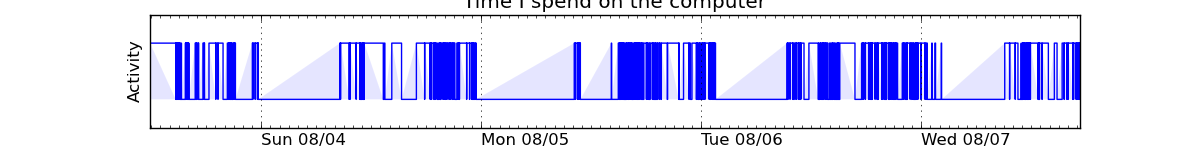
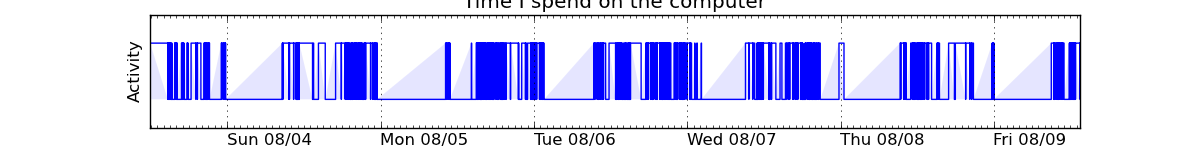
Fixed the diagonal thing going on. Also tidied the code up and commented it so everything is clear.

diff --git a/comptime.py b/comptime.py
@@ -4,9 +4,10 @@ Script to process and display the time I spend on the computer.
 
 """
 import sys
-import pylab
-import matplotlib.dates as mdates
 import datetime
+import matplotlib.pyplot as plt
+import matplotlib.dates as mdates
+from matplotlib.ticker import FuncFormatter as ff
 from code import interact
 # interact(local=locals())
 
@@ -37,8 +38,10 @@ def parseTime(filename):
 	Returns a tuple of lists of data, in this case, a list of
 	datetime instances and a list of booleens representing computer
 	state being entered at that time (asleep or awake).
+	The order of the lists is very important so that we know which
+	time corresponds to which event.
 	"""
-	lines = list()
+	rows = list()
 
 	with open(filename) as f:
 		for i, row in enumerate(f):
@@ -46,19 +49,16 @@ def parseTime(filename):
 			# 	break
 			# print i, "\t", row,
 			line = row.strip("\n").split("\t\t")
-			lines.append(line)
+			rows.append(line)
 
-	# the idea would be to seperate time into chunks
-	# of customisable length
-
-	activity, date, time = zip(*lines)
+	event, date, time = zip(*rows)
 
 	datetime_strings = [ d+" "+t for d, t in zip(date, time) ]
 
-	return str2datetime(datetime_strings), word2bool(activity)
+	return str2datetime(datetime_strings), word2bool(event)
 
 
-def makePlot(data):
+def makeStepPlot(data):
 	"""
 	Make a graph of Time vs. Activity
 
@@ -73,169 +73,139 @@ def makePlot(data):
 	y1 = y
 	y2 = [0]*len(y)
 	
-	fig = pylab.figure(figsize=(12,1.5))
+	fig = plt.figure(figsize=(12,1.5))
 	ax = fig.add_subplot(111)
 
 	# steps-post means the step goes up when Wake
 	# 					and it goes down when Sleep
-	pylab.plot_date(x, y, fmt="", xdate=True, ydate=False,
+	plt.plot_date(x, y, fmt="", xdate=True, ydate=False,
 					drawstyle="steps-post")
 	
-	pylab.ylim([-0.5, 1.5])
-	pylab.fill_between(x, y1, y2, alpha=0.1, edgecolor="w")
-	pylab.title('Time I spend on the computer')
-	pylab.xlabel('Time')
-	pylab.ylabel('Activity')
+	plt.ylim([-0.5, 1.5])
+	plt.fill_between(x, y1, y2, alpha=0.1, edgecolor="w")
+	plt.title('Time I spend on the computer')
+	plt.xlabel('Time')
+	plt.ylabel('Activity')
 
 	ax.xaxis.set_minor_locator(mdates.HourLocator())
 	ax.xaxis.set_major_locator(mdates.DayLocator())
 	xlabels = ax.xaxis.set_major_formatter(mdates.DateFormatter("%a %m/%d"))
 	ax.xaxis.grid(True, which="major")
-	pylab.subplots_adjust(bottom=0.15)
+	plt.subplots_adjust(bottom=0.15)
 
 	for label in ax.get_xticklabels():
 		label.set_horizontalalignment('left')
 	ax.set_yticks([])
-	# pylab.show()
-	pylab.savefig("stepplot.png", bbox_inches=0)
+	# plt.show()
+	plt.savefig("stepplot.png", bbox_inches=0)
 
 	return
 
 
-def makeBarPlot(data):
-	import numpy as np
-	import matplotlib.pyplot as plt
-	import datetime
-
-	times, activity = data
-
-	first_day = times[0].date()
-	last_day  = times[-1].date()
-
-	# dates for xaxis
-	event_date = mdates.num2date( mdates.drange(first_day, last_day, datetime.timedelta(days=1)) )
-	
-	# base date for yaxis can be anything, since information is in the time
-	anydate = datetime.date(2001,1,1)
-
-	# event times
-	event_start = [datetime.time(20, 12), datetime.time(12, 15), datetime.time(8, 1,)]
-	event_finish = [datetime.time(23, 56), datetime.time(16, 5), datetime.time(18, 34)]
-
-	# translate times and dates lists into matplotlib date format numpy arrays
-	start = np.fromiter((mdates.date2num(datetime.datetime.combine(anydate, event)) for event in event_start), dtype = 'float', count = len(event_start))
-	finish = np.fromiter((mdates.date2num(datetime.datetime.combine(anydate, event)) for event in event_finish), dtype = 'float', count = len(event_finish))
-	date = mdates.date2num(event_date)
-
-	# calculate events durations
-	duration = finish - start
-
-	fig = plt.figure()
-	ax = fig.add_subplot(1, 1, 1)
-
-	# use errorbar to represent event duration
-	ax.errorbar(date, start, [np.zeros(len(duration)), duration], linestyle = '')
-	# make matplotlib treat both axis as times
-	ax.xaxis_date()
-	ax.yaxis_date()
-
-	plt.xticks(rotation='vertical')
-	plt.subplots_adjust(bottom=0.3)
-
-	plt.savefig("plot2.png", bbox_inches=0)
-	return
-
-def makeSleepPlot(data):
+def data4plot(data):
 	"""
-	Taking seconds off since it isn't useful here,
-	but could be interesting to look at to see times when I wasn't super attentive.
+	Returns data suitably formatted for a bar plot.
 	"""
-	from matplotlib.ticker import FuncFormatter as ff
+	times, events = data
 
-	times, activity = data
+	eventtimes = zip(times, events)
 
-	# take seconds off
-	# times = [ dt.replace(second=0) for dt in times ]
-
-	comptimes = zip(times, activity)
-
-	# if the first activity is sleep, discard it
-	if not comptimes[0][1]:
-		comptimes.pop(0)
-
-	# x axis
-	first_day = times[0].date()
-	last_day  = times[-1].date()
-	days = mdates.num2date( mdates.drange(first_day, last_day, datetime.timedelta(days=1)) )
+	# if the first event is sleep, discard it
+	if not eventtimes[0][1]:
+		eventtimes.pop(0)
 
 	# seperate the starting times from the finishing times
 	def getStartEnd(alist):
-		start_times = list()
-		end_times 	= list()
+		start_times, end_times = list(), list()
 		for el in alist:
-			activity = el[1]
-			if activity:
+			event_start = el[1]
+			if event_start:
 				start_times.append(el)
 			else:
 				end_times.append(el)
 		return map(list, [zip(*start_times)[0], zip(*end_times)[0]])
 
-	start_times, end_times = getStartEnd(comptimes)
+	start_times, end_times = getStartEnd(eventtimes)
+
 	# end_times will always be one short since the computer is ON to process this data
 	# so we add the most recent time to endtime so that the latest bar appears
 	end_times.append(datetime.datetime.now().replace(microsecond=0))
 	assert len(start_times) == len(end_times)
 
-	def getElapsedTime(start, end):
-		times = zip(start, end)
-		intervals  = [ sleep - wake for wake, sleep in times ]
-		return intervals
+	# calculate the elapsed time
+	intervals = [ sleep - wake for wake, sleep in zip(start_times, end_times) ]
 
-	# for Y-axis, turn from time to numbers
+	return start_times, end_times, intervals
+
+
+def makeBarPlot(data):
+	"""
+	data:	3-tuple of lists
+			start_times:	list of datetime instances for event start
+			end_times:		list of datetime instances for event end
+			intervals:		list of timedelta instances for event duration
+
+	Makes a bar plot, date vs. time of the computer activity.
+
+	It's easy to put in the date data as datetime instances, but
+	the time data needs a workaround. We turn the datetime intances
+	into integers and then format the time axis accordingly.
+
+	Places were there are a lot of lines as opposed to one block
+	shows I was very attentive! [ironic]
+	"""
+	start_times, end_times, intervals = data
+
+	## x axis date data
+	days = [ dt.date() for dt in start_times ]
+
+	## y axis workaround
 	def dt2m(dt):
 		return (dt.hour*60) + dt.minute
+	interval_mins   = [ i.seconds/60 for i in intervals ]	# height of the bars
+	starttimes_mins = [ dt2m(dt) for dt in start_times ]	# bottom point of the bars
 
-	# Then format the Y axis as Hour:Minute using a custom formatter
+
+	## Set up the plot
+	fig = plt.figure()						# figsize in inches
+	ax = fig.add_subplot(1, 1, 1)
+
+	## bar is (x, height of bar, bottom of bar)
+	plt.bar(days, interval_mins, bottom=starttimes_mins, align="edge", edgecolor='none')
+
+
+	## Customize the plot
+
+	## Customize the x axis
+	# set limits for the x axis
+	first_day = days[0]
+	last_day  = days[-1]
+	# ax.set_xlim([first_day, last_day + datetime.timedelta(days=1)])
+	ax.xaxis.set_major_formatter(mdates.DateFormatter('%a %e')) # format x axis tick labels as "mmm dd"
+	for label in ax.get_xticklabels():						# align the labels to the left of their column (the right of the tick label)
+		label.set_horizontalalignment('left')
+
+	## Customize the y axis
+	ax.set_ylim([0, 24*60])
+	ax.yaxis.set_minor_locator(plt.MultipleLocator(60))		# a tick mark every hour
+	ax.yaxis.set_major_locator(plt.MultipleLocator(4*60))	# a tick label every 4 hours
+	# format y axis tick labels as Hour:Minute using a custom formatter
 	def m2hm(x, i):
 		h = int(x/60)
 		m = int(x%60)
-		return '%(h)02d:%(m)02d' % {'h':h,'m':m}
+		return '%(h)2d:%(m)02d' % {'h':h,'m':m}				# hours don't show a leading 0 zero
+	ax.yaxis.set_major_formatter(ff(m2hm))					# the custom formatter
 
-	# bottom point of the bars
-	starttimes_mins = [ dt2m(dt) for dt in start_times ]
 
-	# heights of the bars
-	intervals = getElapsedTime(start_times, end_times)
-	interval_mins = [ i.seconds/60 for i in intervals ]
-
-	# stats
-	total_time = sum(intervals, datetime.timedelta())
-
-	fig = pylab.figure(figsize=(6, 9)) #figsize in inches
-	ax = fig.add_subplot(1, 1, 1)
-	ax.bar(start_times, interval_mins, bottom=starttimes_mins, edgecolor='none')
-
-	# matplotlib date format object
-	hfmt = mdates.DateFormatter('%b %d')
-	ax.xaxis.set_major_formatter(hfmt)
-	ax.xaxis.set_major_locator(pylab.MultipleLocator(1.0)) #a tick mark a day
-	for label in ax.get_xticklabels():
-		label.set_horizontalalignment('left')
-	ax.set_xlim([first_day, last_day + datetime.timedelta(days=1)])
-	ax.xaxis.grid(True, which="major")
-
-	ax.yaxis.grid(True, which="major")
-	ax.set_ylim([0, 24*60])
-	ax.yaxis.set_major_formatter(ff(m2hm))
-	ax.yaxis.set_major_locator(pylab.MultipleLocator(60)) #a tick mark an hour
-
-	pylab.savefig("barplot.png")
+	plt.savefig("barplot2.png")
 	return
+
 
 def main():
 	data = parseTime(FILE)
-	makePlot(data)
-	makeSleepPlot(data)
+	makeStepPlot(data)
+	makeBarPlot(data4plot(data))
+	print "Done !"
 	return
 
 if __name__ == "__main__":
@@ -243,3 +213,5 @@ if __name__ == "__main__":
 	sys.exit(main())
 
 
+# stats
+# total_time = sum(intervals, datetime.timedelta())
